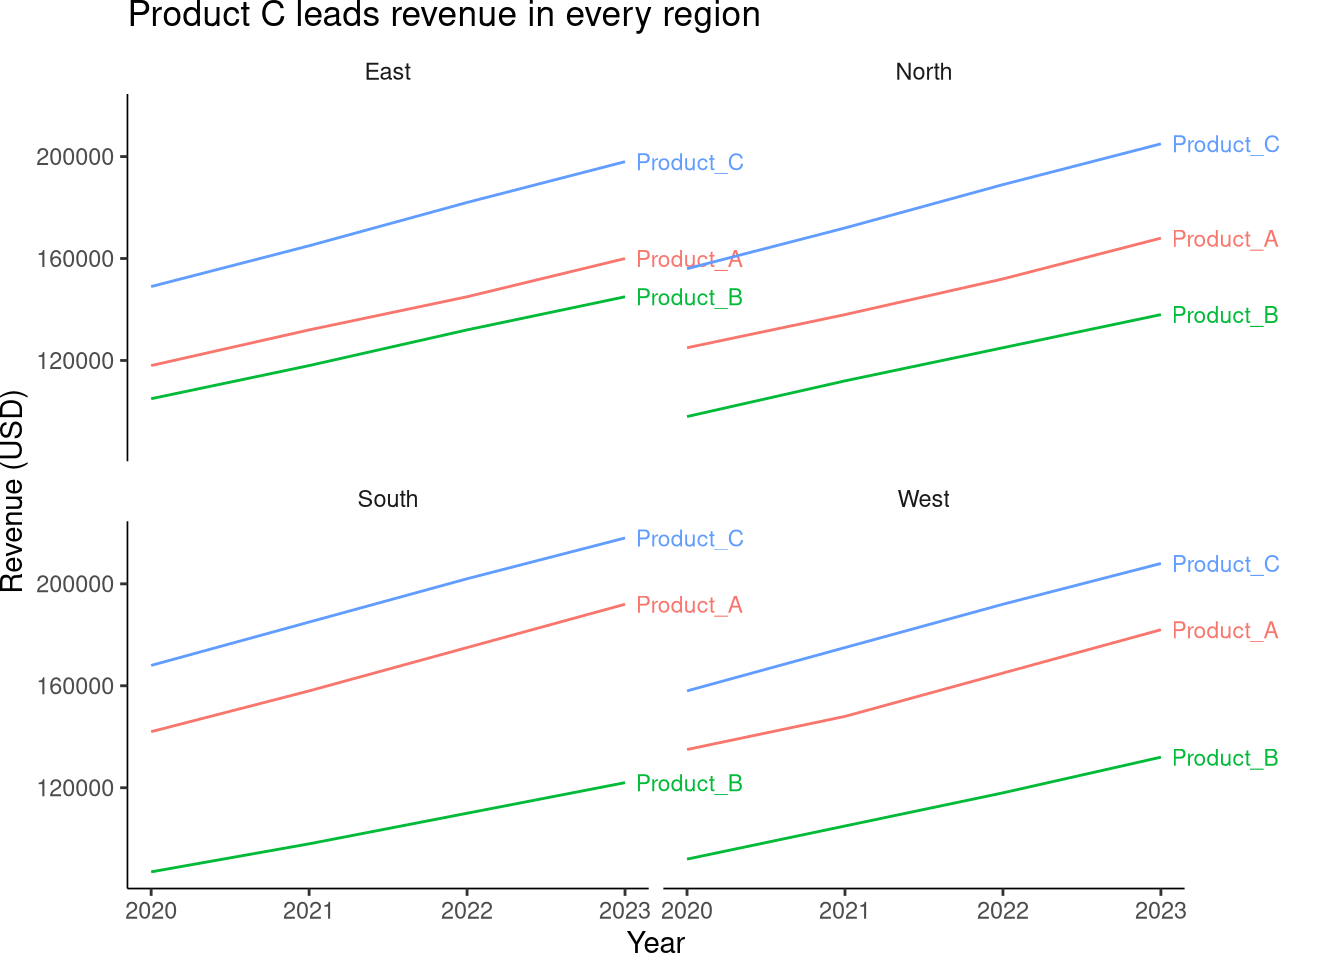
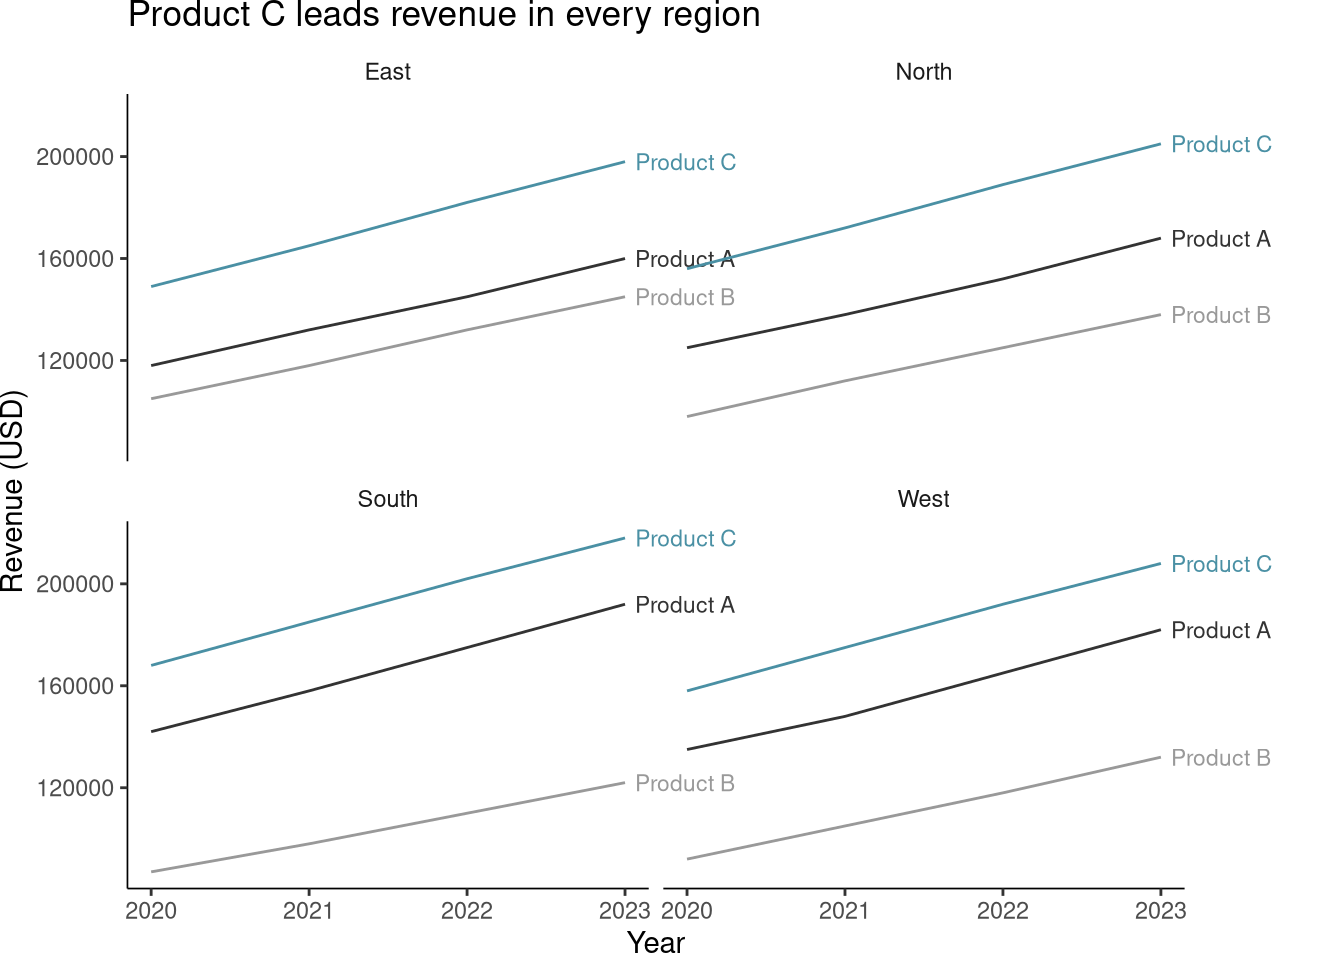
corrected factor of product

diff --git a/tufte_visualization_exercises.html b/tufte_visualization_exercises.html
@@ -6,7 +6,7 @@
 
 <meta name="viewport" content="width=device-width, initial-scale=1.0, user-scalable=yes">
 
-<meta name="author" content="R Data Visualization Practice">
+<meta name="author" content="Daniel Wilkinson">
 
 <title>Tufte Visualization Principles: Practice Exercises</title>
 <style>
@@ -118,7 +118,7 @@ pre > code.sourceCode > span > a:first-child::before { text-decoration: underlin
     <div>
     <div class="quarto-title-meta-heading">Author</div>
     <div class="quarto-title-meta-contents">
-             <p>R Data Visualization Practice </p>
+             <p>Daniel Wilkinson </p>
           </div>
   </div>
     
@@ -189,28 +189,33 @@ $ market_share          &lt;dbl&gt; 18.5, 15.2, 22.1, 19.8, 13.7, 23.4, 17.9, 16
 <p><strong>Requirements</strong>: - Remove unnecessary grid lines - Minimize or remove axis lines where appropriate - Use direct labels instead of a legend - Remove background shading - Keep only essential elements</p>
 <div class="cell">
 <div class="code-copy-outer-scaffold"><div class="sourceCode cell-code" id="cb3"><pre class="sourceCode r code-with-copy"><code class="sourceCode r"><span id="cb3-1"><a href="#cb3-1" aria-hidden="true" tabindex="-1"></a><span class="co"># YOUR CODE HERE</span></span>
-<span id="cb3-2"><a href="#cb3-2" aria-hidden="true" tabindex="-1"></a>data <span class="sc">|&gt;</span></span>
-<span id="cb3-3"><a href="#cb3-3" aria-hidden="true" tabindex="-1"></a>  <span class="fu">mutate</span>(<span class="at">region =</span> <span class="fu">factor</span>(region, <span class="at">levels =</span> <span class="fu">c</span>(<span class="st">"North"</span>, <span class="st">"East"</span>, <span class="st">"South"</span>, <span class="st">"West"</span>))) <span class="sc">|&gt;</span></span>
-<span id="cb3-4"><a href="#cb3-4" aria-hidden="true" tabindex="-1"></a>  <span class="fu">ggplot</span>(<span class="fu">aes</span>(<span class="at">x =</span> year, <span class="at">y =</span> revenue, <span class="at">color =</span> product)) <span class="sc">+</span></span>
-<span id="cb3-5"><a href="#cb3-5" aria-hidden="true" tabindex="-1"></a>  <span class="fu">geom_line</span>() <span class="sc">+</span></span>
-<span id="cb3-6"><a href="#cb3-6" aria-hidden="true" tabindex="-1"></a>  <span class="fu">facet_wrap</span>(<span class="sc">~</span> region) <span class="sc">+</span></span>
-<span id="cb3-7"><a href="#cb3-7" aria-hidden="true" tabindex="-1"></a>  <span class="fu">geom_text</span>(</span>
-<span id="cb3-8"><a href="#cb3-8" aria-hidden="true" tabindex="-1"></a>    <span class="at">data =</span> data <span class="sc">|&gt;</span> <span class="fu">filter</span>(year <span class="sc">==</span> <span class="fu">max</span>(year)),</span>
-<span id="cb3-9"><a href="#cb3-9" aria-hidden="true" tabindex="-1"></a>    <span class="fu">aes</span>(<span class="at">label =</span> product),</span>
-<span id="cb3-10"><a href="#cb3-10" aria-hidden="true" tabindex="-1"></a>    <span class="at">hjust =</span> <span class="sc">-</span><span class="fl">0.1</span>, <span class="at">size =</span> <span class="dv">3</span></span>
-<span id="cb3-11"><a href="#cb3-11" aria-hidden="true" tabindex="-1"></a>  ) <span class="sc">+</span></span>
-<span id="cb3-12"><a href="#cb3-12" aria-hidden="true" tabindex="-1"></a>  <span class="fu">coord_cartesian</span>(<span class="at">clip =</span> <span class="st">"off"</span>) <span class="sc">+</span></span>
-<span id="cb3-13"><a href="#cb3-13" aria-hidden="true" tabindex="-1"></a>  <span class="fu">theme</span>(</span>
-<span id="cb3-14"><a href="#cb3-14" aria-hidden="true" tabindex="-1"></a>    <span class="at">panel.grid       =</span> <span class="fu">element_blank</span>(),</span>
-<span id="cb3-15"><a href="#cb3-15" aria-hidden="true" tabindex="-1"></a>    <span class="at">panel.border     =</span> <span class="fu">element_blank</span>(),</span>
-<span id="cb3-16"><a href="#cb3-16" aria-hidden="true" tabindex="-1"></a>    <span class="at">axis.line        =</span> <span class="fu">element_line</span>(<span class="at">colour =</span> <span class="st">"black"</span>, <span class="at">linewidth =</span> <span class="fl">0.3</span>),</span>
-<span id="cb3-17"><a href="#cb3-17" aria-hidden="true" tabindex="-1"></a>    <span class="at">panel.background =</span> <span class="fu">element_blank</span>(),</span>
-<span id="cb3-18"><a href="#cb3-18" aria-hidden="true" tabindex="-1"></a>    <span class="at">strip.background =</span> <span class="fu">element_blank</span>(),</span>
-<span id="cb3-19"><a href="#cb3-19" aria-hidden="true" tabindex="-1"></a>    <span class="at">legend.position  =</span> <span class="st">"none"</span>,</span>
-<span id="cb3-20"><a href="#cb3-20" aria-hidden="true" tabindex="-1"></a>    <span class="at">plot.margin      =</span> <span class="fu">margin</span>(<span class="at">r =</span> <span class="dv">60</span>)</span>
-<span id="cb3-21"><a href="#cb3-21" aria-hidden="true" tabindex="-1"></a>  ) <span class="sc">+</span></span>
-<span id="cb3-22"><a href="#cb3-22" aria-hidden="true" tabindex="-1"></a>  <span class="fu">labs</span>(<span class="at">x =</span> <span class="st">"Year"</span>, <span class="at">y =</span> <span class="st">"Revenue (USD)"</span>, </span>
-<span id="cb3-23"><a href="#cb3-23" aria-hidden="true" tabindex="-1"></a>       <span class="at">title =</span> <span class="st">"Product C leads revenue in every region"</span>)</span></code></pre></div><button title="Copy to Clipboard" class="code-copy-button"><i class="bi"></i></button></div>
+<span id="cb3-2"><a href="#cb3-2" aria-hidden="true" tabindex="-1"></a>data <span class="ot">&lt;-</span> data <span class="sc">|&gt;</span></span>
+<span id="cb3-3"><a href="#cb3-3" aria-hidden="true" tabindex="-1"></a>   <span class="fu">mutate</span>(<span class="at">product =</span> <span class="fu">gsub</span>(<span class="st">"_"</span>, <span class="st">" "</span>, product)) </span>
+<span id="cb3-4"><a href="#cb3-4" aria-hidden="true" tabindex="-1"></a>data <span class="sc">|&gt;</span></span>
+<span id="cb3-5"><a href="#cb3-5" aria-hidden="true" tabindex="-1"></a>  <span class="fu">mutate</span>(<span class="at">region =</span> <span class="fu">factor</span>(region, <span class="at">levels =</span> <span class="fu">c</span>(<span class="st">"North"</span>, <span class="st">"East"</span>, <span class="st">"South"</span>, <span class="st">"West"</span>))) <span class="sc">|&gt;</span></span>
+<span id="cb3-6"><a href="#cb3-6" aria-hidden="true" tabindex="-1"></a>  <span class="fu">ggplot</span>(<span class="fu">aes</span>(<span class="at">x =</span> year, <span class="at">y =</span> revenue, <span class="at">color =</span> product)) <span class="sc">+</span></span>
+<span id="cb3-7"><a href="#cb3-7" aria-hidden="true" tabindex="-1"></a>  <span class="fu">geom_line</span>() <span class="sc">+</span></span>
+<span id="cb3-8"><a href="#cb3-8" aria-hidden="true" tabindex="-1"></a>  <span class="fu">facet_wrap</span>(<span class="sc">~</span> region) <span class="sc">+</span></span>
+<span id="cb3-9"><a href="#cb3-9" aria-hidden="true" tabindex="-1"></a>  <span class="fu">geom_text</span>(</span>
+<span id="cb3-10"><a href="#cb3-10" aria-hidden="true" tabindex="-1"></a>    <span class="at">data =</span> data <span class="sc">|&gt;</span> <span class="fu">filter</span>(year <span class="sc">==</span> <span class="fu">max</span>(year)),</span>
+<span id="cb3-11"><a href="#cb3-11" aria-hidden="true" tabindex="-1"></a>    <span class="fu">aes</span>(<span class="at">label =</span> product),</span>
+<span id="cb3-12"><a href="#cb3-12" aria-hidden="true" tabindex="-1"></a>    <span class="at">hjust =</span> <span class="sc">-</span><span class="fl">0.1</span>, <span class="at">size =</span> <span class="dv">3</span></span>
+<span id="cb3-13"><a href="#cb3-13" aria-hidden="true" tabindex="-1"></a>  ) <span class="sc">+</span></span>
+<span id="cb3-14"><a href="#cb3-14" aria-hidden="true" tabindex="-1"></a>      <span class="fu">scale_colour_manual</span>(<span class="at">values =</span> <span class="fu">c</span>(<span class="st">"Product A"</span> <span class="ot">=</span> <span class="st">"grey20"</span>,</span>
+<span id="cb3-15"><a href="#cb3-15" aria-hidden="true" tabindex="-1"></a>                                 <span class="st">"Product B"</span> <span class="ot">=</span> <span class="st">"grey60"</span>,</span>
+<span id="cb3-16"><a href="#cb3-16" aria-hidden="true" tabindex="-1"></a>                                 <span class="st">"Product C"</span> <span class="ot">=</span> <span class="st">"#4a90a4"</span>)) <span class="sc">+</span></span>
+<span id="cb3-17"><a href="#cb3-17" aria-hidden="true" tabindex="-1"></a>  <span class="fu">coord_cartesian</span>(<span class="at">clip =</span> <span class="st">"off"</span>) <span class="sc">+</span></span>
+<span id="cb3-18"><a href="#cb3-18" aria-hidden="true" tabindex="-1"></a>  <span class="fu">theme</span>(</span>
+<span id="cb3-19"><a href="#cb3-19" aria-hidden="true" tabindex="-1"></a>    <span class="at">panel.grid       =</span> <span class="fu">element_blank</span>(),</span>
+<span id="cb3-20"><a href="#cb3-20" aria-hidden="true" tabindex="-1"></a>    <span class="at">panel.border     =</span> <span class="fu">element_blank</span>(),</span>
+<span id="cb3-21"><a href="#cb3-21" aria-hidden="true" tabindex="-1"></a>    <span class="at">axis.line        =</span> <span class="fu">element_line</span>(<span class="at">colour =</span> <span class="st">"black"</span>, <span class="at">linewidth =</span> <span class="fl">0.3</span>),</span>
+<span id="cb3-22"><a href="#cb3-22" aria-hidden="true" tabindex="-1"></a>    <span class="at">panel.background =</span> <span class="fu">element_blank</span>(),</span>
+<span id="cb3-23"><a href="#cb3-23" aria-hidden="true" tabindex="-1"></a>    <span class="at">strip.background =</span> <span class="fu">element_blank</span>(),</span>
+<span id="cb3-24"><a href="#cb3-24" aria-hidden="true" tabindex="-1"></a>    <span class="at">legend.position  =</span> <span class="st">"none"</span>,</span>
+<span id="cb3-25"><a href="#cb3-25" aria-hidden="true" tabindex="-1"></a>    <span class="at">plot.margin      =</span> <span class="fu">margin</span>(<span class="at">r =</span> <span class="dv">60</span>)</span>
+<span id="cb3-26"><a href="#cb3-26" aria-hidden="true" tabindex="-1"></a>  ) <span class="sc">+</span></span>
+<span id="cb3-27"><a href="#cb3-27" aria-hidden="true" tabindex="-1"></a>  <span class="fu">labs</span>(<span class="at">x =</span> <span class="st">"Year"</span>, <span class="at">y =</span> <span class="st">"Revenue (USD)"</span>, </span>
+<span id="cb3-28"><a href="#cb3-28" aria-hidden="true" tabindex="-1"></a>       <span class="at">title =</span> <span class="st">"Product C leads revenue in every region"</span>)</span></code></pre></div><button title="Copy to Clipboard" class="code-copy-button"><i class="bi"></i></button></div>
 <div class="cell-output-display">
 <div>
 <figure class="figure">
@@ -268,44 +273,42 @@ $ market_share          &lt;dbl&gt; 18.5, 15.2, 22.1, 19.8, 13.7, 23.4, 17.9, 16
 <div class="cell">
 <div class="code-copy-outer-scaffold"><div class="sourceCode cell-code" id="cb5"><pre class="sourceCode r code-with-copy"><code class="sourceCode r"><span id="cb5-1"><a href="#cb5-1" aria-hidden="true" tabindex="-1"></a><span class="co"># YOUR CODE HERE</span></span>
 <span id="cb5-2"><a href="#cb5-2" aria-hidden="true" tabindex="-1"></a></span>
-<span id="cb5-3"><a href="#cb5-3" aria-hidden="true" tabindex="-1"></a>data <span class="ot">&lt;-</span> data <span class="sc">|&gt;</span> <span class="fu">mutate</span>(<span class="at">product =</span> <span class="fu">gsub</span>(<span class="st">"_"</span>, <span class="st">" "</span>, product))</span>
-<span id="cb5-4"><a href="#cb5-4" aria-hidden="true" tabindex="-1"></a></span>
-<span id="cb5-5"><a href="#cb5-5" aria-hidden="true" tabindex="-1"></a><span class="fu">ggplot</span>(data, <span class="fu">aes</span>(<span class="at">x =</span> year, <span class="at">y =</span> revenue, <span class="at">col =</span> product)) <span class="sc">+</span> </span>
-<span id="cb5-6"><a href="#cb5-6" aria-hidden="true" tabindex="-1"></a>  <span class="fu">geom_line</span>() <span class="sc">+</span> </span>
-<span id="cb5-7"><a href="#cb5-7" aria-hidden="true" tabindex="-1"></a>  <span class="fu">geom_point</span>(<span class="at">size =</span> <span class="fl">1.5</span>, <span class="at">shape =</span> <span class="dv">21</span>, <span class="at">fill =</span> <span class="st">"white"</span>, <span class="at">stroke =</span> <span class="fl">0.4</span>) <span class="sc">+</span></span>
-<span id="cb5-8"><a href="#cb5-8" aria-hidden="true" tabindex="-1"></a>  <span class="fu">facet_wrap</span>(<span class="sc">~</span> region, <span class="at">labeller =</span> <span class="fu">labeller</span>(<span class="at">region =</span> toupper)) <span class="sc">+</span></span>
-<span id="cb5-9"><a href="#cb5-9" aria-hidden="true" tabindex="-1"></a>  <span class="fu">scale_colour_manual</span>(<span class="at">values =</span> <span class="fu">c</span>(<span class="st">"Product A"</span> <span class="ot">=</span> <span class="st">"grey60"</span>, </span>
-<span id="cb5-10"><a href="#cb5-10" aria-hidden="true" tabindex="-1"></a>                                 <span class="st">"Product B"</span> <span class="ot">=</span> <span class="st">"grey40"</span>, </span>
-<span id="cb5-11"><a href="#cb5-11" aria-hidden="true" tabindex="-1"></a>                                 <span class="st">"Product C"</span> <span class="ot">=</span> <span class="st">"#4a90a4"</span>)) <span class="sc">+</span></span>
-<span id="cb5-12"><a href="#cb5-12" aria-hidden="true" tabindex="-1"></a></span>
-<span id="cb5-13"><a href="#cb5-13" aria-hidden="true" tabindex="-1"></a><span class="fu">scale_y_continuous</span>(</span>
-<span id="cb5-14"><a href="#cb5-14" aria-hidden="true" tabindex="-1"></a>  <span class="at">limits =</span> <span class="fu">c</span>(<span class="dv">80000</span>, <span class="dv">240000</span>),</span>
-<span id="cb5-15"><a href="#cb5-15" aria-hidden="true" tabindex="-1"></a>  <span class="at">breaks =</span> <span class="fu">c</span>(<span class="dv">80000</span>, <span class="dv">120000</span>, <span class="dv">160000</span>, <span class="dv">200000</span>, <span class="dv">240000</span>),</span>
-<span id="cb5-16"><a href="#cb5-16" aria-hidden="true" tabindex="-1"></a>  <span class="at">labels =</span> scales<span class="sc">::</span>comma,</span>
-<span id="cb5-17"><a href="#cb5-17" aria-hidden="true" tabindex="-1"></a>  <span class="at">expand =</span> <span class="fu">c</span>(<span class="dv">0</span>, <span class="dv">0</span>)</span>
-<span id="cb5-18"><a href="#cb5-18" aria-hidden="true" tabindex="-1"></a>)<span class="sc">+</span></span>
-<span id="cb5-19"><a href="#cb5-19" aria-hidden="true" tabindex="-1"></a>  <span class="fu">theme</span>(</span>
-<span id="cb5-20"><a href="#cb5-20" aria-hidden="true" tabindex="-1"></a>    <span class="at">panel.grid       =</span> <span class="fu">element_blank</span>(),</span>
-<span id="cb5-21"><a href="#cb5-21" aria-hidden="true" tabindex="-1"></a>    <span class="at">panel.border     =</span> <span class="fu">element_blank</span>(),</span>
-<span id="cb5-22"><a href="#cb5-22" aria-hidden="true" tabindex="-1"></a>    <span class="at">axis.line        =</span> <span class="fu">element_line</span>(<span class="at">colour =</span> <span class="st">"black"</span>, <span class="at">linewidth =</span> <span class="fl">0.3</span>),</span>
-<span id="cb5-23"><a href="#cb5-23" aria-hidden="true" tabindex="-1"></a>    <span class="at">panel.background =</span> <span class="fu">element_blank</span>(),</span>
-<span id="cb5-24"><a href="#cb5-24" aria-hidden="true" tabindex="-1"></a>    <span class="at">axis.line.x      =</span> <span class="fu">element_blank</span>(),</span>
-<span id="cb5-25"><a href="#cb5-25" aria-hidden="true" tabindex="-1"></a>    <span class="at">axis.ticks.x     =</span> <span class="fu">element_blank</span>(),</span>
-<span id="cb5-26"><a href="#cb5-26" aria-hidden="true" tabindex="-1"></a>    <span class="at">axis.title.y     =</span> <span class="fu">element_blank</span>(),</span>
-<span id="cb5-27"><a href="#cb5-27" aria-hidden="true" tabindex="-1"></a>    <span class="at">strip.background =</span> <span class="fu">element_blank</span>(),</span>
-<span id="cb5-28"><a href="#cb5-28" aria-hidden="true" tabindex="-1"></a>    <span class="at">legend.position  =</span> <span class="st">"none"</span>,</span>
-<span id="cb5-29"><a href="#cb5-29" aria-hidden="true" tabindex="-1"></a>    <span class="at">plot.margin      =</span> <span class="fu">margin</span>(<span class="at">r =</span> <span class="dv">10</span>)</span>
-<span id="cb5-30"><a href="#cb5-30" aria-hidden="true" tabindex="-1"></a>  ) <span class="sc">+</span></span>
-<span id="cb5-31"><a href="#cb5-31" aria-hidden="true" tabindex="-1"></a><span class="fu">theme</span>(<span class="at">panel.spacing.x =</span> <span class="fu">unit</span>(<span class="dv">1</span>, <span class="st">"cm"</span>),</span>
-<span id="cb5-32"><a href="#cb5-32" aria-hidden="true" tabindex="-1"></a>     <span class="at">panel.spacing.y =</span> <span class="fu">unit</span>(<span class="dv">1</span>, <span class="st">"cm"</span>)) <span class="sc">+</span></span>
-<span id="cb5-33"><a href="#cb5-33" aria-hidden="true" tabindex="-1"></a><span class="fu">geom_text</span>(</span>
-<span id="cb5-34"><a href="#cb5-34" aria-hidden="true" tabindex="-1"></a>  <span class="at">data =</span> data <span class="sc">|&gt;</span> <span class="fu">filter</span>(year <span class="sc">==</span> <span class="fu">max</span>(year)),</span>
-<span id="cb5-35"><a href="#cb5-35" aria-hidden="true" tabindex="-1"></a>  <span class="fu">aes</span>(<span class="at">label =</span> product),</span>
-<span id="cb5-36"><a href="#cb5-36" aria-hidden="true" tabindex="-1"></a>  <span class="at">hjust =</span> <span class="dv">1</span>, </span>
-<span id="cb5-37"><a href="#cb5-37" aria-hidden="true" tabindex="-1"></a>  <span class="at">vjust =</span> <span class="sc">-</span><span class="fl">0.5</span>,</span>
-<span id="cb5-38"><a href="#cb5-38" aria-hidden="true" tabindex="-1"></a>  <span class="at">size =</span> <span class="fl">2.5</span></span>
-<span id="cb5-39"><a href="#cb5-39" aria-hidden="true" tabindex="-1"></a>) <span class="sc">+</span></span>
-<span id="cb5-40"><a href="#cb5-40" aria-hidden="true" tabindex="-1"></a>  <span class="fu">labs</span>(<span class="at">x =</span> <span class="st">""</span>, <span class="at">title =</span> <span class="st">"Product C consistently generates the most revenue  (USD) in all regions"</span>)</span></code></pre></div><button title="Copy to Clipboard" class="code-copy-button"><i class="bi"></i></button></div>
+<span id="cb5-3"><a href="#cb5-3" aria-hidden="true" tabindex="-1"></a><span class="fu">ggplot</span>(data, <span class="fu">aes</span>(<span class="at">x =</span> year, <span class="at">y =</span> revenue, <span class="at">col =</span> product)) <span class="sc">+</span> </span>
+<span id="cb5-4"><a href="#cb5-4" aria-hidden="true" tabindex="-1"></a>  <span class="fu">geom_line</span>() <span class="sc">+</span> </span>
+<span id="cb5-5"><a href="#cb5-5" aria-hidden="true" tabindex="-1"></a>  <span class="fu">geom_point</span>(<span class="at">size =</span> <span class="fl">1.5</span>, <span class="at">shape =</span> <span class="dv">21</span>, <span class="at">fill =</span> <span class="st">"white"</span>, <span class="at">stroke =</span> <span class="fl">0.4</span>) <span class="sc">+</span></span>
+<span id="cb5-6"><a href="#cb5-6" aria-hidden="true" tabindex="-1"></a>  <span class="fu">facet_wrap</span>(<span class="sc">~</span> region, <span class="at">labeller =</span> <span class="fu">labeller</span>(<span class="at">region =</span> toupper)) <span class="sc">+</span></span>
+<span id="cb5-7"><a href="#cb5-7" aria-hidden="true" tabindex="-1"></a>  <span class="fu">scale_colour_manual</span>(<span class="at">values =</span> <span class="fu">c</span>(<span class="st">"Product A"</span> <span class="ot">=</span> <span class="st">"grey60"</span>, </span>
+<span id="cb5-8"><a href="#cb5-8" aria-hidden="true" tabindex="-1"></a>                                 <span class="st">"Product B"</span> <span class="ot">=</span> <span class="st">"grey40"</span>, </span>
+<span id="cb5-9"><a href="#cb5-9" aria-hidden="true" tabindex="-1"></a>                                 <span class="st">"Product C"</span> <span class="ot">=</span> <span class="st">"#4a90a4"</span>)) <span class="sc">+</span></span>
+<span id="cb5-10"><a href="#cb5-10" aria-hidden="true" tabindex="-1"></a></span>
+<span id="cb5-11"><a href="#cb5-11" aria-hidden="true" tabindex="-1"></a><span class="fu">scale_y_continuous</span>(</span>
+<span id="cb5-12"><a href="#cb5-12" aria-hidden="true" tabindex="-1"></a>  <span class="at">limits =</span> <span class="fu">c</span>(<span class="dv">80000</span>, <span class="dv">240000</span>),</span>
+<span id="cb5-13"><a href="#cb5-13" aria-hidden="true" tabindex="-1"></a>  <span class="at">breaks =</span> <span class="fu">c</span>(<span class="dv">80000</span>, <span class="dv">120000</span>, <span class="dv">160000</span>, <span class="dv">200000</span>, <span class="dv">240000</span>),</span>
+<span id="cb5-14"><a href="#cb5-14" aria-hidden="true" tabindex="-1"></a>  <span class="at">labels =</span> scales<span class="sc">::</span>comma,</span>
+<span id="cb5-15"><a href="#cb5-15" aria-hidden="true" tabindex="-1"></a>  <span class="at">expand =</span> <span class="fu">c</span>(<span class="dv">0</span>, <span class="dv">0</span>)</span>
+<span id="cb5-16"><a href="#cb5-16" aria-hidden="true" tabindex="-1"></a>)<span class="sc">+</span></span>
+<span id="cb5-17"><a href="#cb5-17" aria-hidden="true" tabindex="-1"></a>  <span class="fu">theme</span>(</span>
+<span id="cb5-18"><a href="#cb5-18" aria-hidden="true" tabindex="-1"></a>    <span class="at">panel.grid       =</span> <span class="fu">element_blank</span>(),</span>
+<span id="cb5-19"><a href="#cb5-19" aria-hidden="true" tabindex="-1"></a>    <span class="at">panel.border     =</span> <span class="fu">element_blank</span>(),</span>
+<span id="cb5-20"><a href="#cb5-20" aria-hidden="true" tabindex="-1"></a>    <span class="at">axis.line        =</span> <span class="fu">element_line</span>(<span class="at">colour =</span> <span class="st">"black"</span>, <span class="at">linewidth =</span> <span class="fl">0.3</span>),</span>
+<span id="cb5-21"><a href="#cb5-21" aria-hidden="true" tabindex="-1"></a>    <span class="at">panel.background =</span> <span class="fu">element_blank</span>(),</span>
+<span id="cb5-22"><a href="#cb5-22" aria-hidden="true" tabindex="-1"></a>    <span class="at">axis.line.x      =</span> <span class="fu">element_blank</span>(),</span>
+<span id="cb5-23"><a href="#cb5-23" aria-hidden="true" tabindex="-1"></a>    <span class="at">axis.ticks.x     =</span> <span class="fu">element_blank</span>(),</span>
+<span id="cb5-24"><a href="#cb5-24" aria-hidden="true" tabindex="-1"></a>    <span class="at">axis.title.y     =</span> <span class="fu">element_blank</span>(),</span>
+<span id="cb5-25"><a href="#cb5-25" aria-hidden="true" tabindex="-1"></a>    <span class="at">strip.background =</span> <span class="fu">element_blank</span>(),</span>
+<span id="cb5-26"><a href="#cb5-26" aria-hidden="true" tabindex="-1"></a>    <span class="at">legend.position  =</span> <span class="st">"none"</span>,</span>
+<span id="cb5-27"><a href="#cb5-27" aria-hidden="true" tabindex="-1"></a>    <span class="at">plot.margin      =</span> <span class="fu">margin</span>(<span class="at">r =</span> <span class="dv">10</span>)</span>
+<span id="cb5-28"><a href="#cb5-28" aria-hidden="true" tabindex="-1"></a>  ) <span class="sc">+</span></span>
+<span id="cb5-29"><a href="#cb5-29" aria-hidden="true" tabindex="-1"></a><span class="fu">theme</span>(<span class="at">panel.spacing.x =</span> <span class="fu">unit</span>(<span class="dv">1</span>, <span class="st">"cm"</span>),</span>
+<span id="cb5-30"><a href="#cb5-30" aria-hidden="true" tabindex="-1"></a>     <span class="at">panel.spacing.y =</span> <span class="fu">unit</span>(<span class="dv">1</span>, <span class="st">"cm"</span>)) <span class="sc">+</span></span>
+<span id="cb5-31"><a href="#cb5-31" aria-hidden="true" tabindex="-1"></a><span class="fu">geom_text</span>(</span>
+<span id="cb5-32"><a href="#cb5-32" aria-hidden="true" tabindex="-1"></a>  <span class="at">data =</span> data <span class="sc">|&gt;</span> <span class="fu">filter</span>(year <span class="sc">==</span> <span class="fu">max</span>(year)),</span>
+<span id="cb5-33"><a href="#cb5-33" aria-hidden="true" tabindex="-1"></a>  <span class="fu">aes</span>(<span class="at">label =</span> product),</span>
+<span id="cb5-34"><a href="#cb5-34" aria-hidden="true" tabindex="-1"></a>  <span class="at">hjust =</span> <span class="dv">1</span>, </span>
+<span id="cb5-35"><a href="#cb5-35" aria-hidden="true" tabindex="-1"></a>  <span class="at">vjust =</span> <span class="sc">-</span><span class="fl">0.5</span>,</span>
+<span id="cb5-36"><a href="#cb5-36" aria-hidden="true" tabindex="-1"></a>  <span class="at">size =</span> <span class="fl">2.5</span></span>
+<span id="cb5-37"><a href="#cb5-37" aria-hidden="true" tabindex="-1"></a>) <span class="sc">+</span></span>
+<span id="cb5-38"><a href="#cb5-38" aria-hidden="true" tabindex="-1"></a>  <span class="fu">labs</span>(<span class="at">x =</span> <span class="st">""</span>, <span class="at">title =</span> <span class="st">"Product C consistently generates the most revenue  (USD) in all regions"</span>)</span></code></pre></div><button title="Copy to Clipboard" class="code-copy-button"><i class="bi"></i></button></div>
 <div class="cell-output-display">
 <div>
 <figure class="figure">
